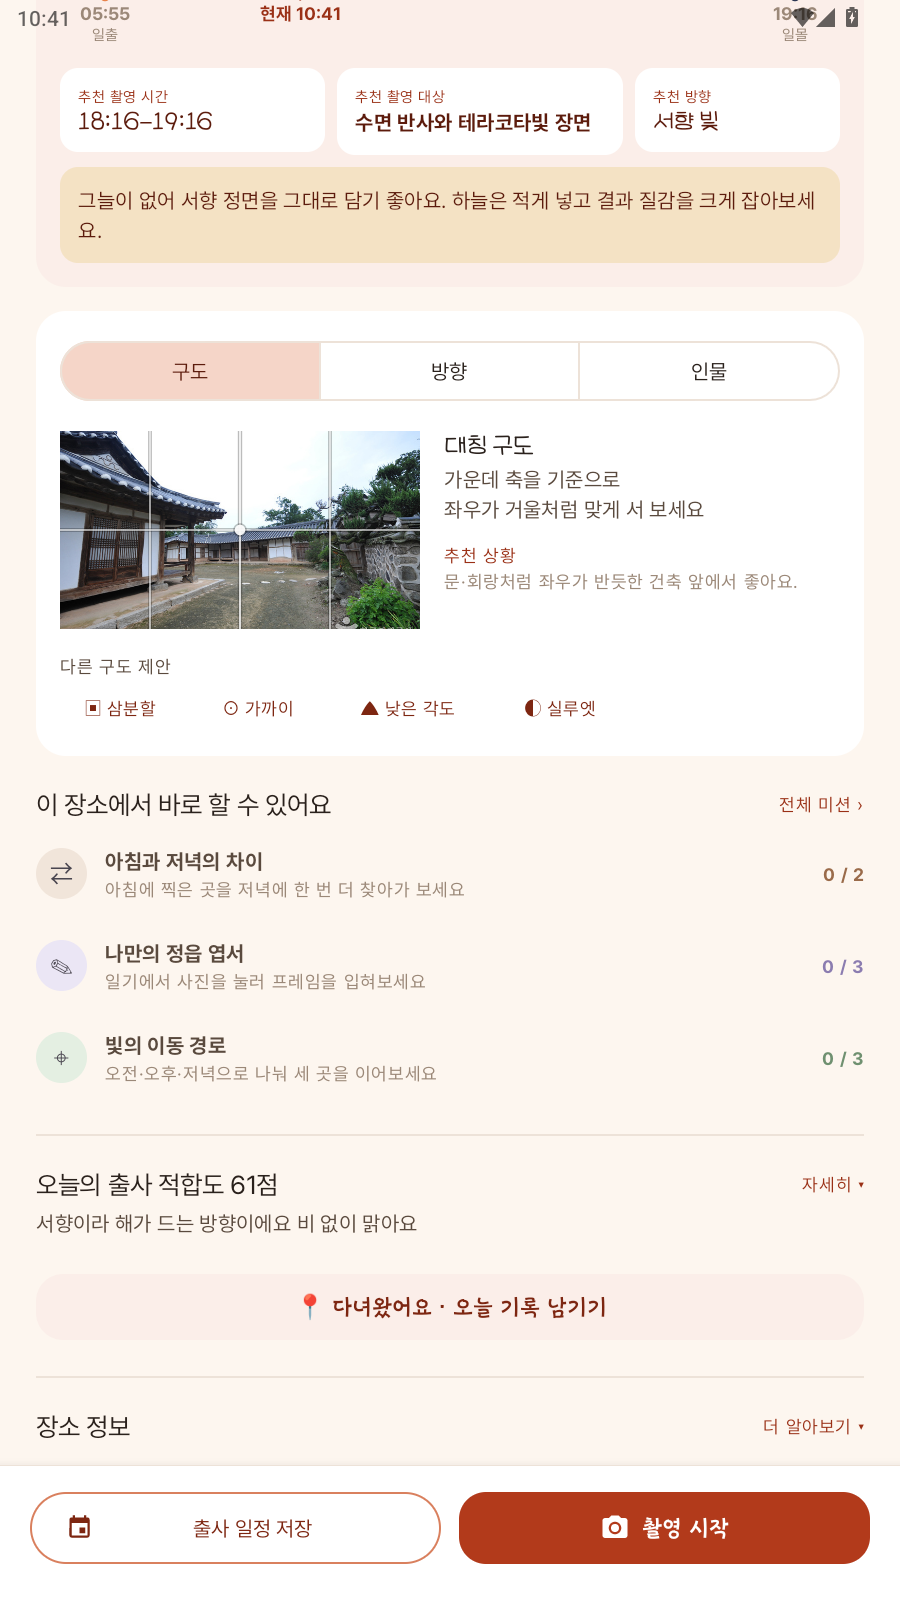
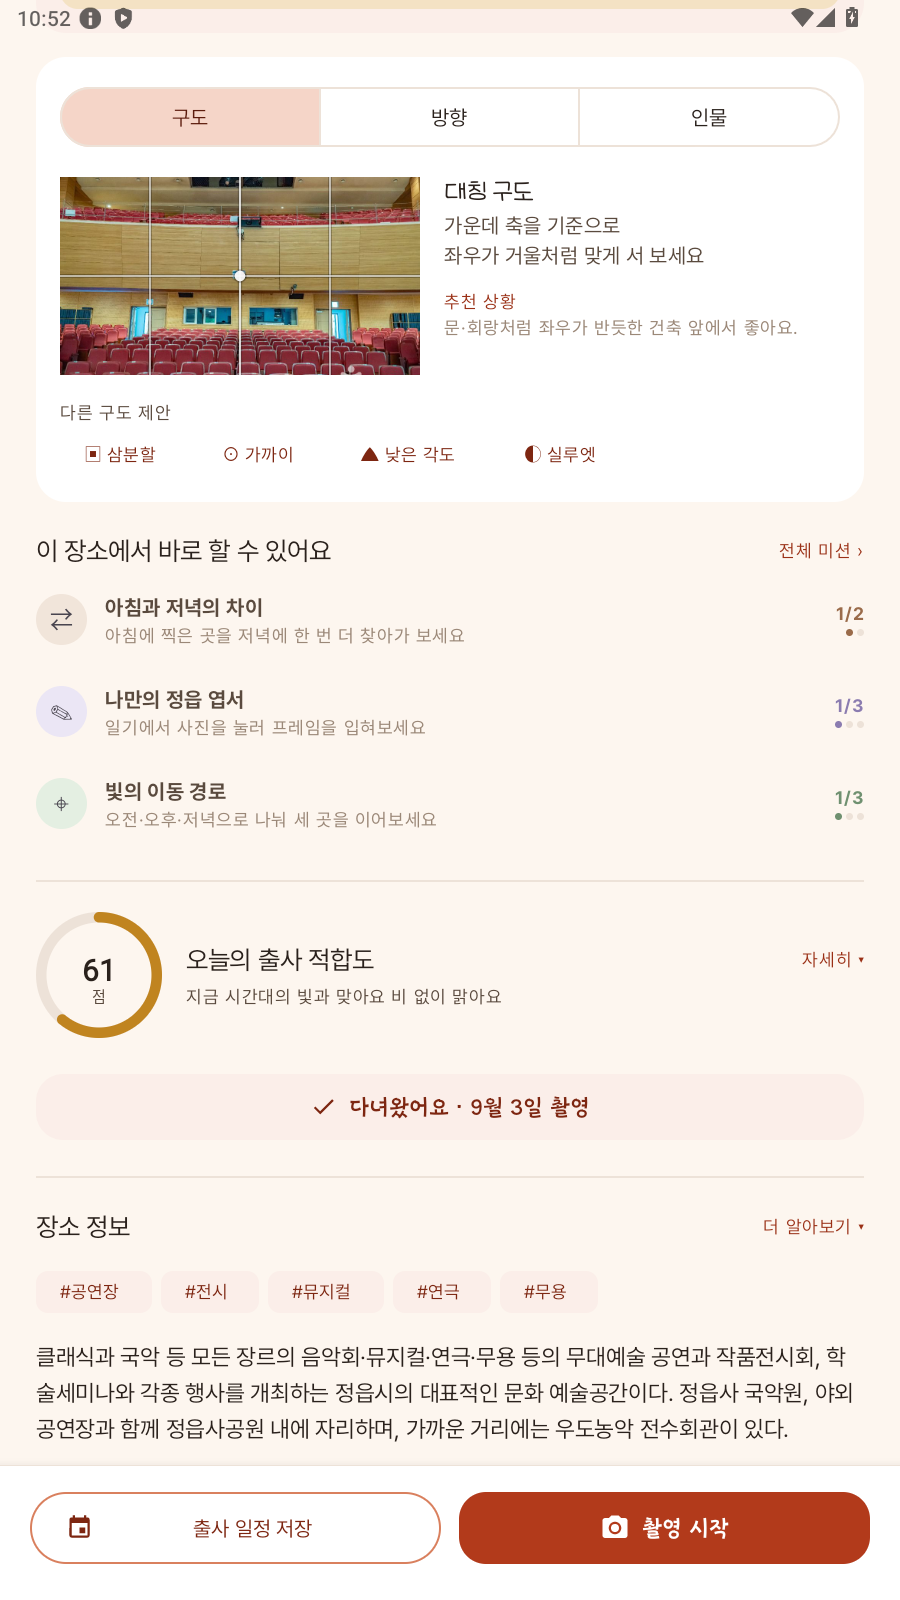
feat(visit): 다녀왔어요를 손으로 누르지 않고 촬영 기록으로 자동 체크 (create apk)
- 상세 화면의 다녀왔어요 버튼을 촬영 기록을 비추는 상태 표시로 바꿈
  기록이 없으면 촬영 화면으로, 있으면 촬영 날짜를 보여 주고 일기로 이어 줌(Flow라 촬영 직후 바로 갱신)
- 시선 가이드 미션 카메라에서 찍은 컷도 장소 정보를 넘겨 방문 기록으로 남김
- 사진은 3시간 안의 기록에만 붙이고 그보다 오래됐으면 오늘 기록을 새로 만들어 옛 날짜로 섞이지 않게
- 빈 화면 안내문·진행 문서·리드미를 새 방식에 맞게 수정, 스플래시 절 추가

diff --git a/app/src/main/java/com/youngs/picview/ui/detail/DetailFragment.kt b/app/src/main/java/com/youngs/picview/ui/detail/DetailFragment.kt
@@ -50,6 +50,9 @@ import com.youngs.picview.util.TtsController
 import com.youngs.picview.util.applyTopSystemBarInsetAsMargin
 import com.youngs.picview.ui.adapter.ImagePagerAdapter
 import com.youngs.picview.ui.guide.GuideActivity
+import java.time.Instant
+import java.time.ZoneId
+import java.time.format.DateTimeFormatter
 import com.youngs.picview.ui.model.SpotItem
 import kotlinx.coroutines.launch
 import java.net.URLEncoder
@@ -174,17 +177,7 @@ class DetailFragment : Fragment(R.layout.fragment_detail) {
         loadTip(spot)
         loadVisitInfo(spot)
 
-        binding.btnStartGuide.setOnClickListener {
-            val intent = Intent(requireContext(), GuideActivity::class.java).apply {
-                putExtra(GuideActivity.EXTRA_SPOT_NAME, spot.title)
-                putExtra(GuideActivity.EXTRA_SPOT_TYPE, spot.contentTypeId)
-                // 포즈 추천이 지금의 빛을 반영해야 하므로 함께 넘깁니다.
-                putExtra(GuideActivity.EXTRA_PHASE, mainViewModel.sunTimes.phaseNow().name)
-                // 촬영한 사진을 이 장소의 방문 기록에 붙이기 위해 필요합니다.
-                putExtra(GuideActivity.EXTRA_CONTENT_ID, spot.contentId)
-            }
-            startActivity(intent)
-        }
+        binding.btnStartGuide.setOnClickListener { startGuide(spot) }
 
         binding.btnNavigate.setOnClickListener { openNavigation(spot) }
         setupFavorite(spot)
@@ -230,39 +223,52 @@ class DetailFragment : Fragment(R.layout.fragment_detail) {
 
     // ───────────────────── 방문 기록 ─────────────────────
 
+    /** 촬영 가이드(앱 카메라)로 갑니다. 여기서 찍은 사진이 이 장소의 방문 기록이 됩니다. */
+    private fun startGuide(spot: SpotItem) {
+        val intent = Intent(requireContext(), GuideActivity::class.java).apply {
+            putExtra(GuideActivity.EXTRA_SPOT_NAME, spot.title)
+            putExtra(GuideActivity.EXTRA_SPOT_TYPE, spot.contentTypeId)
+            // 포즈 추천이 지금의 빛을 반영해야 하므로 함께 넘깁니다.
+            putExtra(GuideActivity.EXTRA_PHASE, mainViewModel.sunTimes.phaseNow().name)
+            // 촬영한 사진을 이 장소의 방문 기록에 붙이기 위해 필요합니다.
+            putExtra(GuideActivity.EXTRA_CONTENT_ID, spot.contentId)
+        }
+        startActivity(intent)
+    }
+
     /**
-     * "다녀왔어요" — 출사 기록(일기 탭)의 원천 데이터를 남깁니다.
+     * "다녀왔어요" — 손으로 누르는 체크가 아니라, 촬영 기록으로 저절로 채워지는 표시입니다.
      *
-     * GPS 자동 체크인 대신 수동 버튼을 쓰는 이유:
-     *  - 위치 권한을 상시 요구하지 않아도 됨(스토어 심사·배터리 모두 유리)
-     *  - 검색만 해 본 곳과 실제로 다녀온 곳이 섞이지 않음
+     * 이 앱의 카메라(촬영 가이드, 시선 가이드 미션)로 사진을 찍으면 그 장소의
+     * 방문 기록이 남고, 여기는 그 기록을 보여 줄 뿐입니다. 손으로 체크하지
+     * 않는 이유:
+     *  - 검색만 해 본 곳과 실제로 찍고 온 곳이 섞이지 않음
+     *  - GPS 상시 권한 없이도 "그 자리에 있었다"는 증거(사진)가 남음
+     *
+     * 아직 기록이 없으면 버튼이 촬영 화면으로 이어 주고, 있으면 그 날짜를
+     * 보여 주며 눌렀을 때 일기로 갑니다. Flow 라서 촬영하고 돌아오면 바로 바뀝니다.
      */
     private fun setupCheckin(spot: SpotItem) {
-        binding.btnCheckin.setOnClickListener {
-            val phase = mainViewModel.sunTimes.phaseNow()
-            viewLifecycleOwner.lifecycleScope.launch {
-                val logged = runCatching {
-                    CourseRepository(requireContext()).logVisit(spot, phase)
-                }.getOrDefault(false)
-                val view = _binding ?: return@launch
-
-                if (logged) {
-                    // 기록이 남은 곳(일기 탭)으로 바로 이어 줍니다.
-                    // 토스트는 사라지면 끝이라 "그래서 어디서 보는데"가 남습니다.
-                    Snackbar.make(view.root, R.string.detail_checkin_done, Snackbar.LENGTH_LONG)
-                        // 하단 바(고도 12dp)가 스낵바를 가립니다. 그 위에 띄웁니다.
-                        .setAnchorView(view.btnSavePlan)
-                        .setAction(R.string.detail_checkin_view_diary) {
-                            // 일기 탭에서 들어온 경우 selectTab 이 같은 탭이라
-                            // 백스택을 정리하지 않으므로, 상세부터 닫습니다.
-                            parentFragmentManager.popBackStack()
-                            (activity as? MainActivity)?.selectTab(R.id.tab_diary)
-                        }
-                        .show()
+        viewLifecycleOwner.lifecycleScope.launch {
+            CourseRepository(requireContext()).observeVisits(spot.contentId).collect { visits ->
+                val binding = _binding ?: return@collect
+                val latest = visits.firstOrNull()
+                if (latest == null) {
+                    binding.btnCheckin.text = getString(R.string.detail_checkin_not_yet)
+                    binding.btnCheckin.setIconResource(R.drawable.ic_camera)
+                    binding.btnCheckin.setOnClickListener { startGuide(spot) }
                 } else {
-                    Toast.makeText(
-                        requireContext(), R.string.detail_checkin_already, Toast.LENGTH_SHORT
-                    ).show()
+                    val date = Instant.ofEpochMilli(latest.visitedAt)
+                        .atZone(ZoneId.systemDefault())
+                        .format(DateTimeFormatter.ofPattern(getString(R.string.detail_checkin_date_pattern)))
+                    binding.btnCheckin.text = getString(R.string.detail_checkin_visited, date)
+                    binding.btnCheckin.setIconResource(R.drawable.ic_check)
+                    binding.btnCheckin.setOnClickListener {
+                        // 일기 탭에서 들어온 경우 selectTab 이 같은 탭이라
+                        // 백스택을 정리하지 않으므로, 상세부터 닫습니다.
+                        parentFragmentManager.popBackStack()
+                        (activity as? MainActivity)?.selectTab(R.id.tab_diary)
+                    }
                 }
             }
         }

diff --git a/app/src/main/java/com/youngs/picview/ui/guide/SiseonGuideActivity.kt b/app/src/main/java/com/youngs/picview/ui/guide/SiseonGuideActivity.kt
@@ -19,6 +19,7 @@ import androidx.activity.result.contract.ActivityResultContracts
 import androidx.appcompat.app.AppCompatActivity
 import androidx.core.content.ContextCompat
 import androidx.core.view.isVisible
+import androidx.lifecycle.lifecycleScope
 import androidx.recyclerview.widget.RecyclerView
 import com.bumptech.glide.Glide
 import com.google.android.material.bottomsheet.BottomSheetBehavior
@@ -27,6 +28,7 @@ import com.google.android.material.chip.Chip
 import com.gun0912.tedpermission.PermissionListener
 import com.gun0912.tedpermission.normal.TedPermission
 import com.youngs.picview.R
+import com.youngs.picview.data.repository.CourseRepository
 import com.youngs.picview.databinding.ActivitySiseonGuideBinding
 import com.youngs.picview.databinding.DialogPhotoSourceBinding
 import com.youngs.picview.databinding.DialogSiseonMissionBinding
@@ -35,10 +37,12 @@ import com.youngs.picview.databinding.ItemMissionSlotBinding
 import com.youngs.picview.databinding.ItemMissionStepBinding
 import com.youngs.picview.domain.guide.SiseonGuide
 import com.youngs.picview.domain.guide.SiseonGuideItem
+import com.youngs.picview.domain.light.LightPhase
 import com.youngs.picview.util.MediaStoreSaver
 import com.youngs.picview.util.TtsController
 import com.youngs.picview.util.applyTopSystemBarInset
 import kotlin.math.abs
+import kotlinx.coroutines.launch
 
 /**
  * 시선 가이드 — 구도 14종을 한 장씩 넘기며 배우고 바로 써 보는 화면.
@@ -92,6 +96,7 @@ class SiseonGuideActivity : AppCompatActivity() {
             if (uri == null || slot !in missionPhotos.indices) return@registerForActivityResult
             missionPhotos[slot] = uri
             renderMissionSlots()
+            recordMissionPhoto(uri)
         }
 
     // ── 카메라 촬영. 시스템 카메라가 이 URI 에 직접 쓰고 돌아옵니다.
@@ -590,6 +595,31 @@ class SiseonGuideActivity : AppCompatActivity() {
             .check()
     }
 
+    /**
+     * 미션 컷을 그 장소의 방문 기록에 붙입니다.
+     *
+     * 사진을 찍었다는 건 그 자리에 있었다는 뜻이라 "다녀왔어요"는 여기서
+     * 저절로 채워집니다. 장소를 모른 채 들어온 경우(홈의 일반 가이드)는
+     * 붙일 곳이 없으므로 건너뜁니다. 사진은 이미 갤러리에 있습니다.
+     */
+    private fun recordMissionPhoto(uri: Uri) {
+        val contentId = intent.getStringExtra(EXTRA_CONTENT_ID) ?: return
+        val title = spotTitle ?: return
+        val phase = intent.getStringExtra(EXTRA_PHASE)
+            ?.let { name -> LightPhase.entries.firstOrNull { it.name == name } }
+            ?: return
+        lifecycleScope.launch {
+            runCatching {
+                CourseRepository(applicationContext)
+                    .attachPhoto(contentId, title, phase, uri.toString())
+            }.onSuccess {
+                Toast.makeText(
+                    this@SiseonGuideActivity, R.string.guide_photo_logged, Toast.LENGTH_SHORT
+                ).show()
+            }
+        }
+    }
+
     /** 안드로이드 9 이하는 MediaStore 저장에도 쓰기 권한이 필요합니다. */
     private fun cameraPermissions(): Array<String> =
         if (Build.VERSION.SDK_INT >= Build.VERSION_CODES.Q) {
@@ -715,6 +745,12 @@ class SiseonGuideActivity : AppCompatActivity() {
 
     companion object {
         private const val EXTRA_SPOT_TITLE = "spot_title"
+
+        /** 촬영지 식별자. 있어야 미션 컷이 그 장소의 방문 기록에 붙습니다. */
+        private const val EXTRA_CONTENT_ID = "content_id"
+
+        /** 들어올 때의 빛 구간([LightPhase] 이름). 방문 기록에 남깁니다. */
+        private const val EXTRA_PHASE = "phase"
         private const val EXTRA_CONTEXT = "context_id"
         private const val EXTRA_GUIDE_ID = "guide_id"
 
@@ -722,15 +758,21 @@ class SiseonGuideActivity : AppCompatActivity() {
          * @param spotTitle 홈에서 고른 장소 이름 (없으면 일반 문구)
          * @param contextId 빛 상황 칩 id — [SiseonGuide.contextIdFor]
          * @param guideId   첫 구도 id — [SiseonGuide.guideIdFor]
+         * @param contentId 촬영지 식별자. 넘기면 미션 컷이 그 장소의 방문 기록이 됩니다.
+         * @param phaseName 지금의 빛 구간 이름([LightPhase.name]). 방문 기록에 남깁니다.
          */
         fun intent(
             context: Context,
             spotTitle: String? = null,
             contextId: String? = null,
-            guideId: String? = null
+            guideId: String? = null,
+            contentId: String? = null,
+            phaseName: String? = null
         ): Intent = Intent(context, SiseonGuideActivity::class.java)
             .putExtra(EXTRA_SPOT_TITLE, spotTitle)
             .putExtra(EXTRA_CONTEXT, contextId)
             .putExtra(EXTRA_GUIDE_ID, guideId)
+            .putExtra(EXTRA_CONTENT_ID, contentId)
+            .putExtra(EXTRA_PHASE, phaseName)
     }
 }

diff --git a/app/src/main/java/com/youngs/picview/data/repository/CourseRepository.kt b/app/src/main/java/com/youngs/picview/data/repository/CourseRepository.kt
@@ -152,28 +152,33 @@ class CourseRepository(context: Context) {
     /**
      * 촬영한 사진을 방문 기록에 붙입니다. 기록이 없으면 새로 만듭니다.
      *
-     * 사진을 찍었다는 건 그 자리에 있었다는 뜻이므로, 따로 "다녀왔어요"를
-     * 누르지 않아도 방문으로 봅니다. 수동 버튼은 남겨 둡니다. 촬영하지 않고
-     * 눈으로만 보고 온 경우도 기록하고 싶을 수 있습니다.
+     * "다녀왔어요"는 이 경로로만 채워집니다. 사진을 찍었다는 건 그 자리에
+     * 있었다는 뜻이라, 손으로 누르는 체크보다 믿을 만하고 GPS 상시 권한도
+     * 필요 없습니다. 상세 화면은 이 기록을 그대로 보여 줄 뿐입니다.
      *
      * @return 새 기록을 만들었으면 true, 기존 기록에 사진만 붙였으면 false
      */
     suspend fun logCapture(spot: SpotItem, phase: LightPhase, photoUri: String): Boolean {
-        val attached = visitDao.attachPhoto(spot.contentId, photoUri)
+        val since = System.currentTimeMillis() - DEDUP_WINDOW_MS
+        val attached = visitDao.attachPhoto(spot.contentId, photoUri, since)
         if (attached > 0) return false
         return logVisit(spot, phase, photoUri)
     }
 
+    /** 한 장소의 방문 기록, 최근 것부터. 촬영 직후 바로 갱신되도록 Flow 입니다. */
+    fun observeVisits(contentId: String): Flow<List<VisitLogEntity>> =
+        visitDao.observeByContentId(contentId)
+
     /**
-     * 세 장 비교에서 고른 대표 컷을 기록에 붙입니다.
+     * 시선 가이드 미션에서 찍은 컷을 기록에 붙입니다.
      *
-     * [logCapture] 와 달리 [SpotItem] 을 요구하지 않습니다. 촬영 화면은
-     * 장소 이름과 식별자만 들고 있고, 좌표나 점수는 모릅니다. 대표 컷을
+     * [logCapture] 와 달리 [SpotItem] 을 요구하지 않습니다. 미션 화면은
+     * 장소 이름과 식별자만 들고 있고, 좌표나 점수는 모릅니다. 사진을
      * 남기자고 없는 값을 지어낼 이유가 없습니다.
      *
-     * 사진이 아직 안 붙은 그 장소의 기록이 있으면 거기에 붙이고, 없으면
-     * 새 기록을 만듭니다. 세 장 중 대표만 기록에 남고 나머지 둘도 갤러리에는
-     * 그대로 있습니다.
+     * 사진이 아직 안 붙은 그 장소의 최근 기록이 있으면 거기에 붙이고, 없으면
+     * 새 기록을 만듭니다. 미션 세 장 중 첫 장만 기록에 남고 나머지도
+     * 갤러리에는 그대로 있습니다.
      */
     suspend fun attachPhoto(
         contentId: String,
@@ -181,7 +186,9 @@ class CourseRepository(context: Context) {
         phase: LightPhase,
         photoUri: String
     ) {
-        if (visitDao.attachPhoto(contentId, photoUri) > 0) return
+        val since = System.currentTimeMillis() - DEDUP_WINDOW_MS
+        if (visitDao.attachPhoto(contentId, photoUri, since) > 0) return
+        if (visitDao.countRecent(contentId, since) > 0) return
 
         visitDao.insert(
             VisitLogEntity(

diff --git a/app/src/main/java/com/youngs/picview/data/local/Daos.kt b/app/src/main/java/com/youngs/picview/data/local/Daos.kt
@@ -98,6 +98,15 @@ interface VisitDao {
     @Query("SELECT DISTINCT contentId FROM visit_log")
     suspend fun visitedContentIds(): List<String>
 
+    /**
+     * 한 장소의 방문 기록, 최근 것부터.
+     *
+     * 상세 화면의 "다녀왔어요"가 이걸 봅니다. Flow 라서 촬영 화면에서 찍고
+     * 돌아오는 순간 표시가 저절로 바뀝니다.
+     */
+    @Query("SELECT * FROM visit_log WHERE contentId = :contentId ORDER BY visitedAt DESC")
+    fun observeByContentId(contentId: String): Flow<List<VisitLogEntity>>
+
 
     /**
      * 이미 남아 있는 방문 기록에 사진을 붙입니다.
@@ -105,16 +114,20 @@ interface VisitDao {
      * 촬영 화면에서 셔터를 누르면 그 장소의 가장 최근 기록을 찾아 채웁니다.
      * 사진이 이미 있으면 덮지 않습니다. 한 장소에서 여러 장을 찍었을 때
      * 첫 장(대개 가장 공들인 것)이 남는 편이 자연스럽습니다.
+     *
+     * [since] 이전의 기록에는 붙이지 않습니다. 몇 주 전 기록에 오늘 사진이
+     * 붙으면 일기에서 그 사진이 옛날 날짜로 들어가고 이달 촬영 수에서도
+     * 빠집니다. 그런 경우엔 오늘 기록을 새로 만드는 게 맞습니다.
      */
     @Query("""
         UPDATE visit_log SET photoUri = :uri
         WHERE id = (
             SELECT id FROM visit_log
-            WHERE contentId = :contentId AND photoUri IS NULL
+            WHERE contentId = :contentId AND photoUri IS NULL AND visitedAt >= :since
             ORDER BY visitedAt DESC LIMIT 1
         )
     """)
-    suspend fun attachPhoto(contentId: String, uri: String): Int
+    suspend fun attachPhoto(contentId: String, uri: String, since: Long): Int
 
     /** 같은 장소를 짧은 시간 안에 여러 번 기록하지 않도록 확인용. */
     @Query(

diff --git a/app/src/main/java/com/youngs/picview/ui/main/MainFragment.kt b/app/src/main/java/com/youngs/picview/ui/main/MainFragment.kt
@@ -329,7 +329,10 @@ class MainFragment : Fragment(R.layout.fragment_main) {
                 requireContext(),
                 spotTitle = spot.title,
                 contextId = SiseonGuide.contextIdFor(facts.bestPhase),
-                guideId = SiseonGuide.guideIdFor(facts)
+                guideId = SiseonGuide.guideIdFor(facts),
+                // 미션에서 찍은 사진이 이 장소의 방문 기록("다녀왔어요")이 되도록.
+                contentId = spot.contentId,
+                phaseName = viewModel.sunTimes.phaseNow().name
             )
         )
     }

diff --git a/README.md b/README.md
@@ -57,6 +57,28 @@
 
 ## 화면별 기능
 
+### 0. 스플래시 — 켜는 순간부터 움직인다
+
+<img src="docs/screenshots/37-splash.png" width="260" align="right" alt="스플래시" />
+
+정읍의 산과 강 위로 해가 뜨는 그림이 화면을 채우고, 그 위에 **정읍 시선** ·
+가는 구분선 · `오늘, 정읍에서 가장 잘 나오는 곳`이 차례로 떠오릅니다.
+그림은 천천히 당겨지고(켄 번즈), 단풍잎이 떨어집니다. 가만히 박힌 로고
+한 장이 아니라 앱이 무엇을 하는 앱인지 첫 3초가 말하게 했습니다.
+라이브러리는 쓰지 않았고 안드로이드 기본 애니메이션 API 와 Canvas 로
+그렸습니다 — 단풍잎은 잎마다 속도·흔들림·회전이 다른 커스텀 뷰입니다.
+
+Android 12+ 는 런처에서 켠 앱 앞에 OS 가 **단색 시작 창**을 강제로
+그립니다(앱이 없앨 수 없고 색만 정할 수 있습니다). 그래서 시작 창 색을
+스플래시 첫 프레임과 같은 노을색으로 두고, 첫 프레임에서 그 색의 막이
+걷히며 그림이 드러나게 해 단색과 움직임이 끊기지 않게 했습니다.
+단색이 머무는 시간은 곧 콜드 스타트 시간이라, 지도 SDK 초기화처럼
+스플래시에 필요 없는 일은 앱 시작에서 빼서 처음 쓰는 화면으로 미뤘습니다.
+스플래시 전용 액티비티가 애니메이션을 끝까지 보여 준 뒤 온보딩 또는
+홈으로 넘깁니다.
+
+<br clear="right" />
+
 ### 1. 홈 — 지금 나가야 하나
 
 <img src="docs/screenshots/01-home.png" width="260" align="right" alt="홈" />
@@ -338,7 +360,7 @@ API 로 새로 받아옵니다** — 오늘 값을 그대로 쓰면 몇 주 뒤 
 <p>
   <img src="docs/screenshots/05-detail.png" width="240" alt="상세 히어로와 황금시간" />
   <img src="docs/screenshots/16-detail-guide.png" width="240" alt="촬영 가이드 - 구도 탭" />
-  <img src="docs/screenshots/29-detail-checkin.png" width="240" alt="미션·적합도·다녀왔어요" />
+  <img src="docs/screenshots/29-detail-checkin.png" width="240" alt="미션·적합도·다녀왔어요(촬영 기록으로 자동 체크)" />
 </p>
 
 상세 화면을 시안 기준으로 전면 개편했습니다. 설계 원칙은 하나입니다 —
@@ -558,10 +580,16 @@ API 로 새로 받아옵니다** — 오늘 값을 그대로 쓰면 몇 주 뒤 
 **촬영 → 기록 → 일기 → 공유**가 한 줄로 이어집니다.
 
 - 촬영 화면에서 셔터를 누르면 **자동으로 방문 기록**이 남고 사진이 붙습니다.
-  사진을 찍었다는 건 그 자리에 있었다는 뜻이니까요
-  (수동 **다녀왔어요** 버튼도 있습니다 — 눈으로만 보고 온 날도 있으니까요.
-  상세 화면의 출사 적합도 아래 항상 보이는 자리에 있고, 누르면
-  "출사 기록에 담았어요 · 일기 보기" 스낵바가 일기 탭으로 이어 줍니다)
+  사진을 찍었다는 건 그 자리에 있었다는 뜻이니까요. 시선 가이드의
+  실전 미션에서 찍은 컷도 같은 장소의 기록이 됩니다
+- **다녀왔어요는 손으로 누르지 않습니다.** 상세 화면의 출사 적합도 아래
+  항상 보이는 그 자리는 이제 촬영 기록을 비추는 표시입니다 — 기록이 없으면
+  `아직 안 다녀왔어요 · 찍으면 저절로 기록돼요`(누르면 촬영 화면), 있으면
+  `다녀왔어요 · 9월 3일 촬영`(누르면 일기). 촬영하고 돌아오는 순간 바뀝니다.
+  수동 체크를 없앤 이유는 둘입니다: 검색만 해 본 곳과 실제로 찍고 온 곳이
+  섞이지 않고, GPS 상시 권한 없이도 "그 자리에 있었다"는 증거(사진)가 남습니다.
+  몇 주 전 기록에 오늘 사진이 붙어 옛 날짜로 들어가지 않도록, 사진은
+  3시간 안의 기록에만 붙고 그보다 오래됐으면 오늘 기록을 새로 만듭니다
 - 하루 단위로 묶여 **일기 초안**이 생성됩니다 (Gemini, 실패 시 템플릿 폴백)
 - **그날 찍은 사진 줄**이 함께 붙습니다
 - **고치기** — LLM 이 쓴 문장이 사실과 다를 수 있고, 무엇보다 "내 일기"라면

diff --git a/docs/PROGRESS.md b/docs/PROGRESS.md
@@ -125,7 +125,7 @@ HTML 태그 제거 → 두 문장마다 문단 → **촬영에 쓸모 있는 낱
 |---|---|---|
 | 1 | **지도 마커 종류별 아이콘** | 카테고리 아이콘(`ic_cat_*`)은 이미 있음. 마커에 연결만 하면 됨 |
 | 2 | **일기에 사진** | 촬영·방문 기록이 이미 있어 잇기만 하면 "찍고 → 기록되고 → 일기가 된다" 흐름이 완성됨 |
-| 3 | **자동 체크인 + 일기 편집** | 현재는 수동 "다녀왔어요" 버튼. 생성된 일기를 고칠 수 없음 |
+| 3 | **일기 편집** | 자동 체크인은 완료(앱 카메라·미션에서 찍으면 방문 기록, 수동 버튼 없음). 생성된 일기를 고칠 수 없음 |
 | 4 | **스탬프북** | `Text.Stamp` 스타일은 준비됨. 기존 미션·배지와 역할이 겹치니 통합 설계 필요 |
 | 5 | **포토 프레임** | 시안 5:2 |
 | 6 | 색감 팔레트 필터 | 시안 13:2 |
